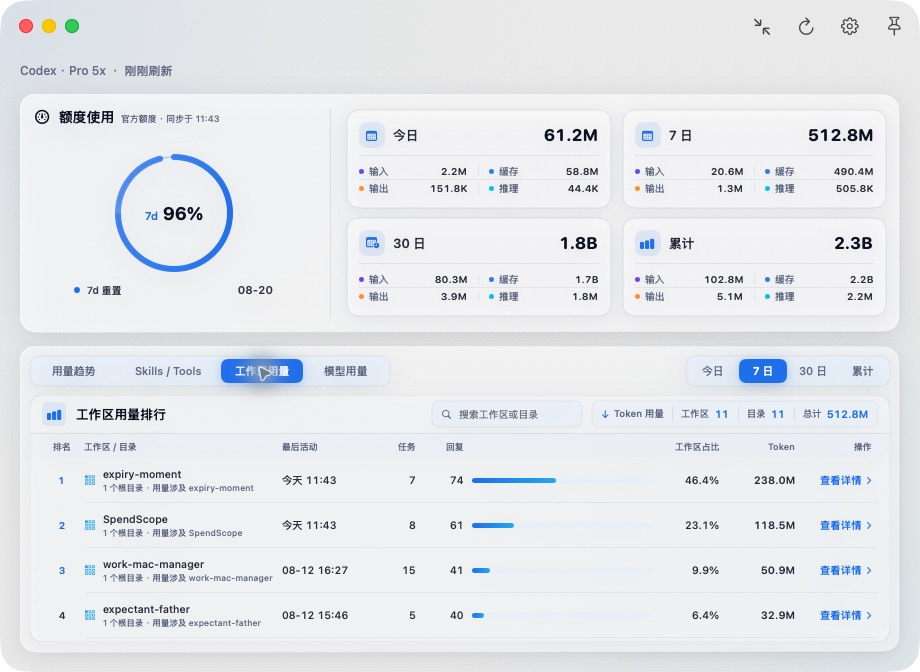
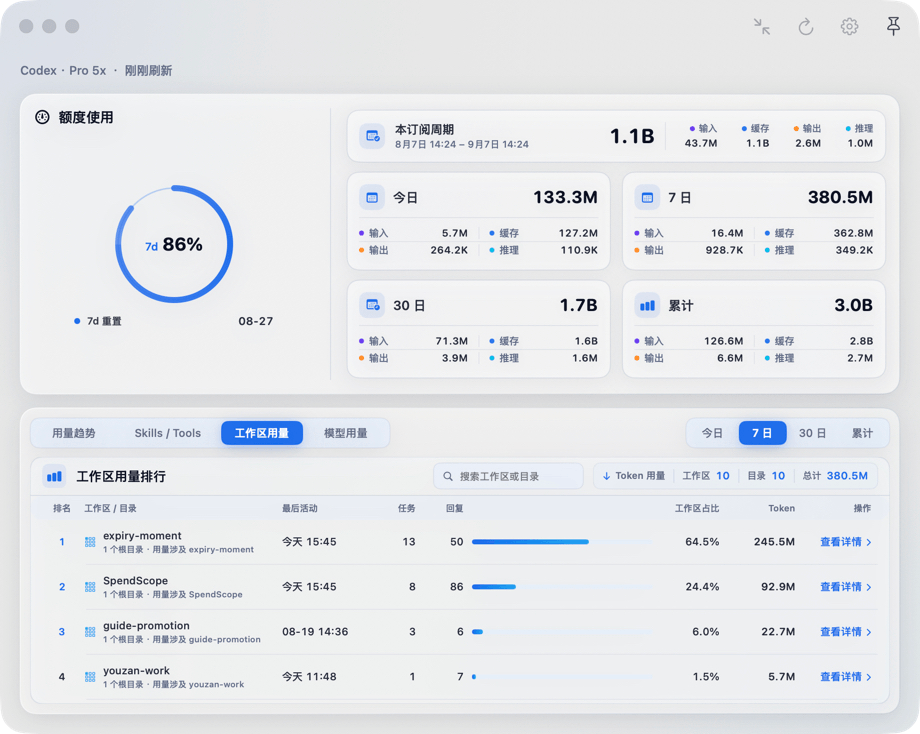
Update dashboard documentation and screenshots

diff --git a/docs/FEATURES.md b/docs/FEATURES.md
@@ -46,13 +46,13 @@
 - 工具栏支持立即刷新、打开设置、看板置顶，以及将看板收起为仅显示额度的紧凑窗口。
 - 支持加载、正常、空数据、过期、失败和格式不兼容等状态。
 
-![SpendScope 详细看板](images/spendscope-dashboard.png)
+![SpendScope 详细看板，展示 7 天额度、本订阅周期、周期汇总和用量趋势](images/spendscope-dashboard.png)
 
 ### 用量趋势与日历
 
 - 趋势图支持 7 天、30 天和订阅周期范围；设置第一次订阅时间后，可按逐月锚定的每个订阅周期查看 Token 总量。
 - 日趋势展示区间总计与日均 Token，周期趋势展示总计与周期均值。
-- 悬浮趋势节点可查看当日或当期总 Token 和四类 Token 构成；周期节点还会展示按模型公开 API 单价计算的等值预计花费，含未定价模型时标记为部分估算。
+- 悬浮趋势节点可查看当日或当期总 Token、四类 Token 构成，以及按模型公开 API 单价计算的等值预计花费；含未定价模型时标记为部分估算。
 - 月度热力日历支持前后切换月份，并限制在已有数据范围内。
 - 悬浮日历日期可查看当日 Token 明细；悬浮热力图例可查看各颜色对应的用量区间。
 - 每日统计按 UTC 日期归属，以尽量接近 Codex 服务端的每日统计口径。

diff --git a/README.md b/README.md
@@ -42,9 +42,9 @@ SpendScope 是第三方本地工具，并非 OpenAI 官方产品。
 
 ### 详细看板
 
-![SpendScope 详细看板，展示额度、Token 汇总、用量日历和趋势图](docs/images/spendscope-dashboard.png)
+![SpendScope 详细看板，展示 7 天额度、本订阅周期、Token 汇总、用量日历和趋势图](docs/images/spendscope-dashboard.png)
 
-详细看板包含用量趋势、Skills / Tools、工作区用量和模型用量四个分析页，并可在今日、7 日、30 日和累计范围间切换排行。
+详细看板在概览区同时展示 7 天额度、今日、7 日、30 日、累计和可选的本订阅周期用量；下方包含用量趋势、Skills / Tools、工作区用量和模型用量四个分析页，并可在今日、7 日、30 日和累计范围间切换排行。
 
 ### 工作区与回复详情
 
